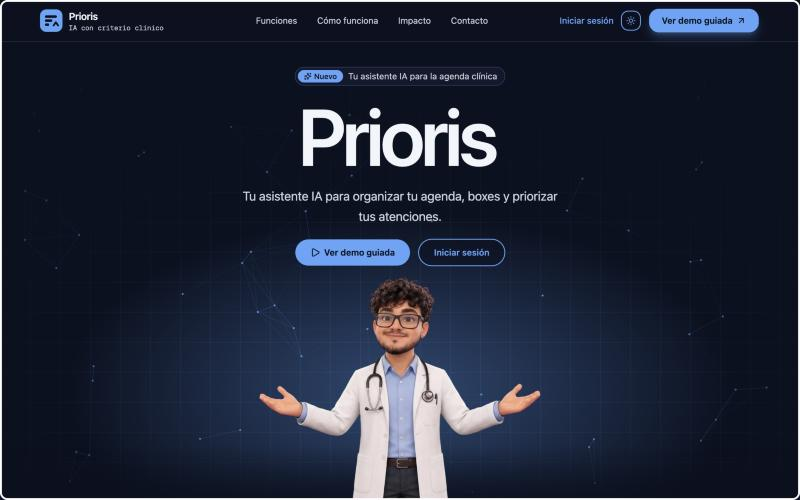
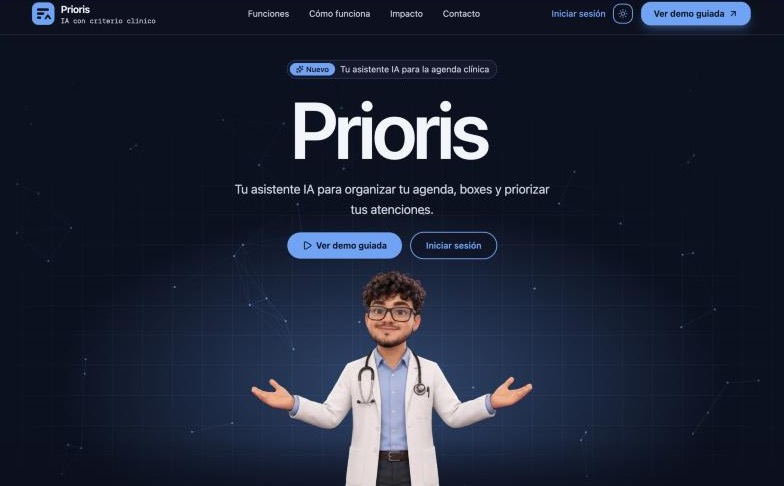
fix: esquinas superiores de la miniatura de Prioris
- Recorta el marco blanco redondeado que venía incrustado en la captura
- Radio interno = radio de la card - borde - padding (10px)

diff --git a/app/globals.css b/app/globals.css
@@ -307,5 +307,6 @@
 
 }
 .project-thumb {
-  border-radius: calc(var(--radius) - 1px) calc(var(--radius) - 1px) 0 0;
+  /* radio de la card - borde (1px) - padding (1px) */
+  border-radius: calc(var(--radius) - 2px) calc(var(--radius) - 2px) 0 0;
 }
